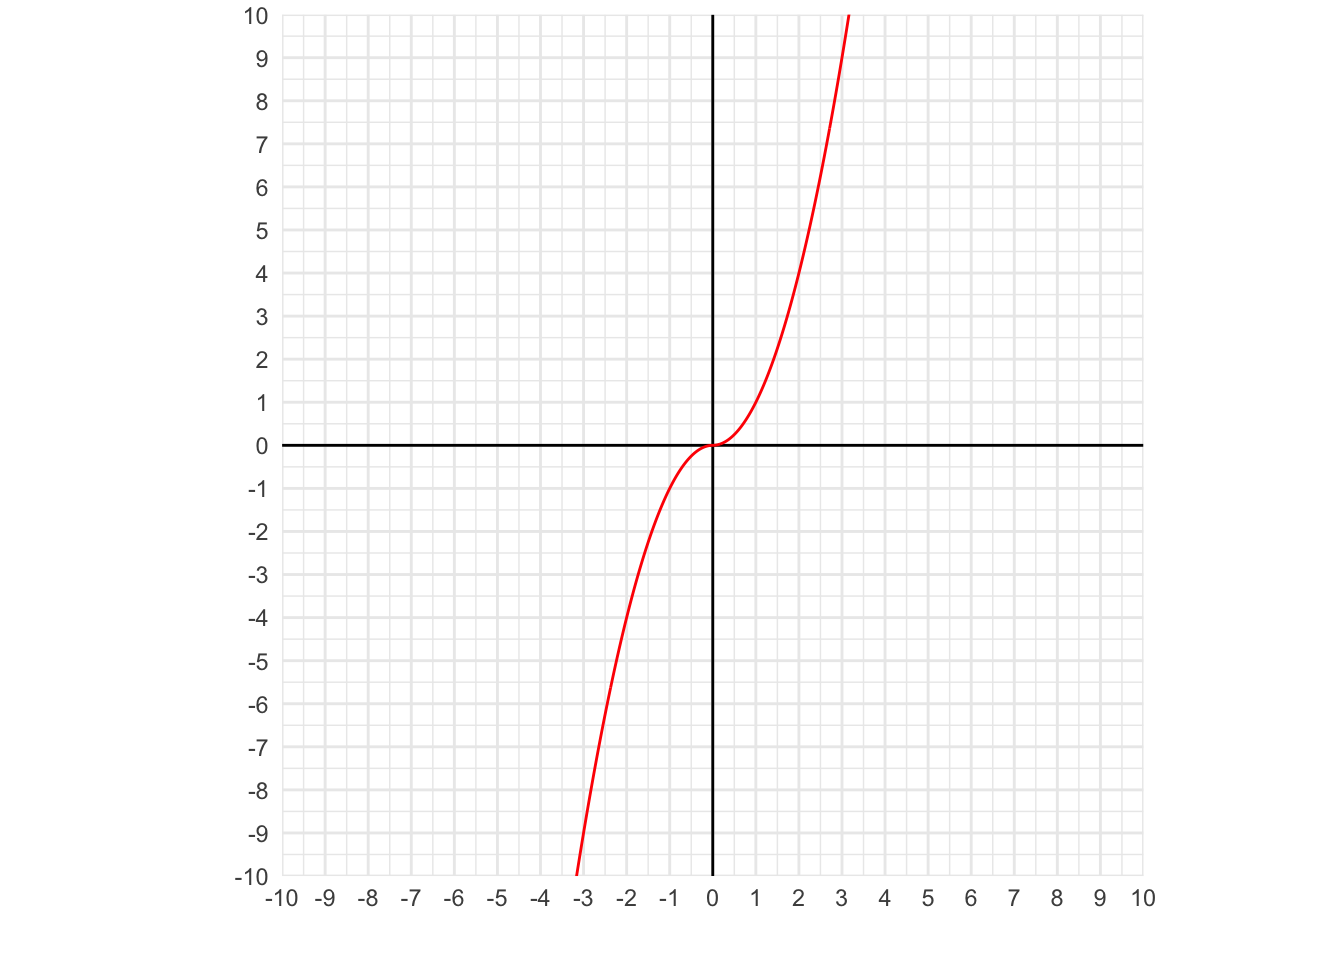
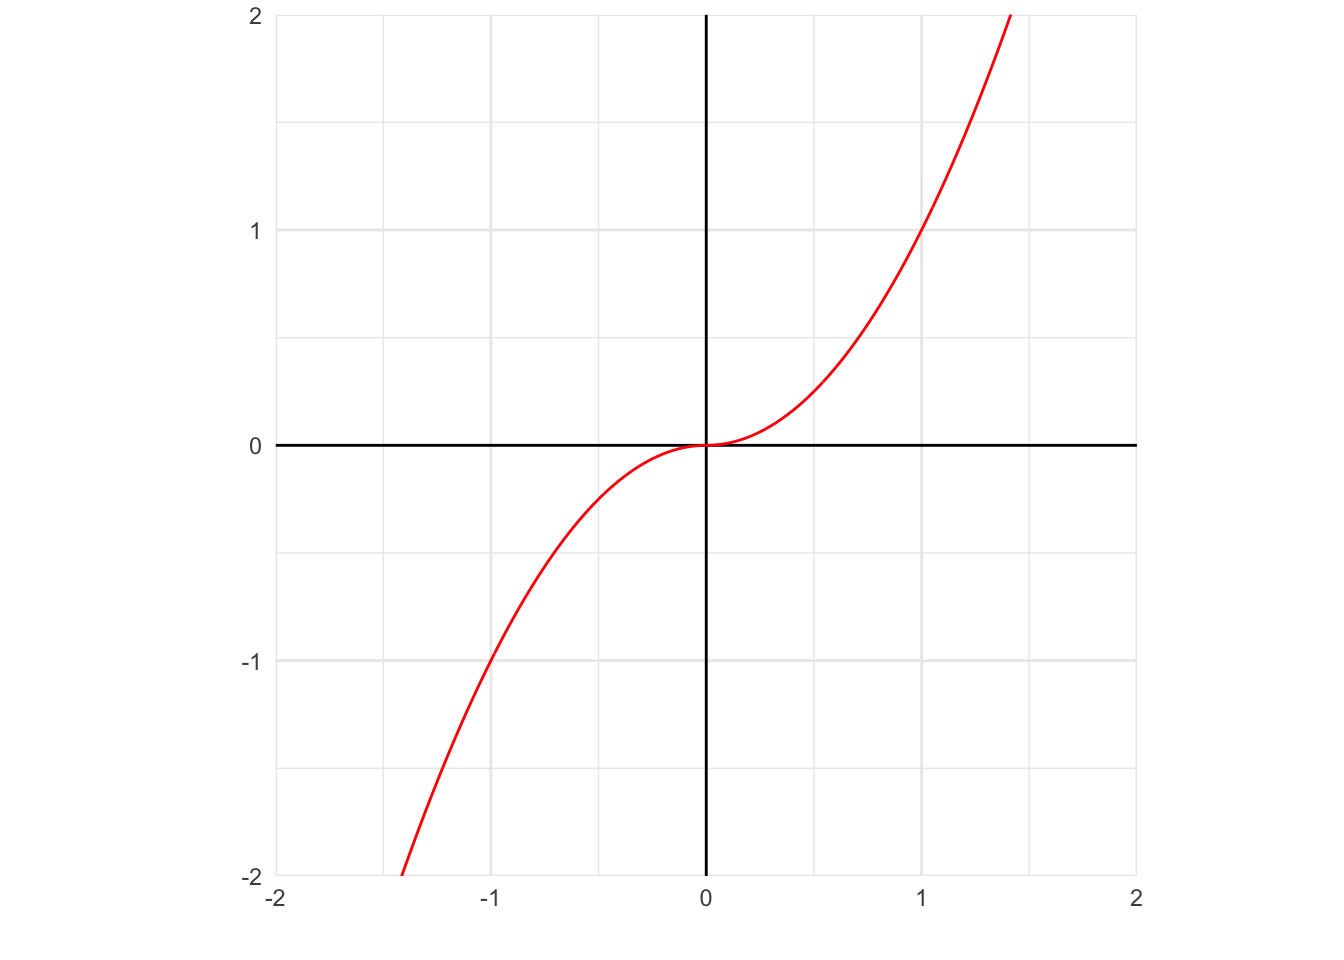
quarto render

diff --git a/docs/lista-1-limites.html b/docs/lista-1-limites.html
@@ -267,7 +267,7 @@ window.Quarto = {
   <li><a href="#primeiro-limite-fundamental-racionalização-fatoração" id="toc-primeiro-limite-fundamental-racionalização-fatoração" class="nav-link" data-scroll-target="#primeiro-limite-fundamental-racionalização-fatoração">1. Primeiro limite fundamental, racionalização, fatoração</a></li>
   <li><a href="#racionalização-fatoração" id="toc-racionalização-fatoração" class="nav-link" data-scroll-target="#racionalização-fatoração">2. Racionalização, fatoração</a></li>
   <li><a href="#fatoração-limites-laterais" id="toc-fatoração-limites-laterais" class="nav-link" data-scroll-target="#fatoração-limites-laterais">3. Fatoração, Limites laterais</a></li>
-  <li><a href="#to-do---fazer" id="toc-to-do---fazer" class="nav-link" data-scroll-target="#to-do---fazer">4. TO DO - FAZER</a></li>
+  <li><a href="#mudança-de-variável-fatoração" id="toc-mudança-de-variável-fatoração" class="nav-link" data-scroll-target="#mudança-de-variável-fatoração">4. Mudança de variável, fatoração</a></li>
   <li><a href="#limite-lateral-módulo" id="toc-limite-lateral-módulo" class="nav-link" data-scroll-target="#limite-lateral-módulo">5. Limite lateral (módulo)</a></li>
   <li><a href="#fatoração" id="toc-fatoração" class="nav-link" data-scroll-target="#fatoração">6. Fatoração</a></li>
   <li><a href="#primeiro-limite-fundamental-substituição-de-variável-produto-de-limites" id="toc-primeiro-limite-fundamental-substituição-de-variável-produto-de-limites" class="nav-link" data-scroll-target="#primeiro-limite-fundamental-substituição-de-variável-produto-de-limites">7. Primeiro limite fundamental, substituição de variável, Produto de limites</a>
@@ -295,18 +295,18 @@ window.Quarto = {
   <li><a href="#parte-2---substituição-direta-1" id="toc-parte-2---substituição-direta-1" class="nav-link" data-scroll-target="#parte-2---substituição-direta-1">Parte 2 - Substituição direta</a></li>
   <li><a href="#resposta-final-1" id="toc-resposta-final-1" class="nav-link" data-scroll-target="#resposta-final-1">Resposta final</a></li>
   </ul></li>
-  <li><a href="#to-do-4" id="toc-to-do-4" class="nav-link" data-scroll-target="#to-do-4">18. TO DO</a></li>
+  <li><a href="#to-do---derivada" id="toc-to-do---derivada" class="nav-link" data-scroll-target="#to-do---derivada">18. TO DO - Derivada</a></li>
   <li><a href="#primeiro-limite-fundamental-teorema-da-função-limitada" id="toc-primeiro-limite-fundamental-teorema-da-função-limitada" class="nav-link" data-scroll-target="#primeiro-limite-fundamental-teorema-da-função-limitada">19. Primeiro limite fundamental + Teorema da função limitada</a></li>
-  <li><a href="#to-do-5" id="toc-to-do-5" class="nav-link" data-scroll-target="#to-do-5">20. TO DO</a></li>
-  <li><a href="#to-do-6" id="toc-to-do-6" class="nav-link" data-scroll-target="#to-do-6">21. TO DO</a></li>
-  <li><a href="#to-do---fazer-1" id="toc-to-do---fazer-1" class="nav-link" data-scroll-target="#to-do---fazer-1">22. TO DO - FAZER</a></li>
-  <li><a href="#to-do---fazer-2" id="toc-to-do---fazer-2" class="nav-link" data-scroll-target="#to-do---fazer-2">23. TO DO - FAZER</a></li>
-  <li><a href="#to-do-7" id="toc-to-do-7" class="nav-link" data-scroll-target="#to-do-7">24. TO DO</a></li>
-  <li><a href="#to-do-8" id="toc-to-do-8" class="nav-link" data-scroll-target="#to-do-8">25. TO DO</a></li>
+  <li><a href="#to-do-4" id="toc-to-do-4" class="nav-link" data-scroll-target="#to-do-4">20. TO DO</a></li>
+  <li><a href="#to-do-5" id="toc-to-do-5" class="nav-link" data-scroll-target="#to-do-5">21. TO DO</a></li>
+  <li><a href="#to-do---fazer" id="toc-to-do---fazer" class="nav-link" data-scroll-target="#to-do---fazer">22. TO DO - FAZER</a></li>
+  <li><a href="#to-do---fazer-1" id="toc-to-do---fazer-1" class="nav-link" data-scroll-target="#to-do---fazer-1">23. TO DO - FAZER</a></li>
+  <li><a href="#to-do-6" id="toc-to-do-6" class="nav-link" data-scroll-target="#to-do-6">24. TO DO</a></li>
+  <li><a href="#to-do-7" id="toc-to-do-7" class="nav-link" data-scroll-target="#to-do-7">25. TO DO</a></li>
   <li><a href="#fatoração-1" id="toc-fatoração-1" class="nav-link" data-scroll-target="#fatoração-1">26. Fatoração</a></li>
   <li><a href="#segundo-limite-fundamental-mudança-de-variável" id="toc-segundo-limite-fundamental-mudança-de-variável" class="nav-link" data-scroll-target="#segundo-limite-fundamental-mudança-de-variável">27. Segundo limite fundamental, mudança de variável</a></li>
-  <li><a href="#to-do-9" id="toc-to-do-9" class="nav-link" data-scroll-target="#to-do-9">28. TO DO</a></li>
-  <li><a href="#to-do-10" id="toc-to-do-10" class="nav-link" data-scroll-target="#to-do-10">29. TO DO</a></li>
+  <li><a href="#to-do-8" id="toc-to-do-8" class="nav-link" data-scroll-target="#to-do-8">28. TO DO</a></li>
+  <li><a href="#to-do-9" id="toc-to-do-9" class="nav-link" data-scroll-target="#to-do-9">29. TO DO</a></li>
   <li><a href="#limites-laterais" id="toc-limites-laterais" class="nav-link" data-scroll-target="#limites-laterais">30. Limites laterais</a></li>
   <li><a href="#intuição-1" id="toc-intuição-1" class="nav-link" data-scroll-target="#intuição-1">31. Intuição</a></li>
   <li><a href="#to-do---polinômios" id="toc-to-do---polinômios" class="nav-link" data-scroll-target="#to-do---polinômios">32. TO DO - Polinômios</a></li>
@@ -500,15 +500,12 @@ window.Quarto = {
 \nexists \lim_{x \to 1} \frac{2x+1}{x^2+2x-3}
 \]</span></p>
 </section>
-<section id="to-do---fazer" class="level3">
-<h3 class="anchored" data-anchor-id="to-do---fazer">4. TO DO - FAZER</h3>
+<section id="mudança-de-variável-fatoração" class="level3">
+<h3 class="anchored" data-anchor-id="mudança-de-variável-fatoração">4. Mudança de variável, fatoração</h3>
 <p><span class="math display">\[
 \lim_{x \to 1} \frac{\sqrt[4]{x}-1}{\sqrt[3]{x}-1}
 \]</span></p>
 <p>Não podemos substituir diretamente, pois dá indeterminação: <span class="math inline">\(\frac{0}{0}\)</span>.</p>
-<blockquote class="blockquote">
-<p>Pensar em como prosseguir! Preciso rever as técnicas de fatoração e racionalização quando a raíz não é quadrada.</p>
-</blockquote>
 <p>Mudança de variável: <span class="math inline">\(x = y^{12}\)</span></p>
 <p><span class="math display">\[
 = \lim_{y \to 1} \frac{y^3 - 1}{y ^4 - 1}
@@ -846,11 +843,12 @@ lim_{x \to a} [f(x) \cdot g(x)] = \left( \lim_{x \to a} f(x) \right) \cdot \left
 \]</span></p>
 </section>
 </section>
-<section id="to-do-4" class="level3">
-<h3 class="anchored" data-anchor-id="to-do-4">18. TO DO</h3>
+<section id="to-do---derivada" class="level3">
+<h3 class="anchored" data-anchor-id="to-do---derivada">18. TO DO - Derivada</h3>
 <p><span class="math display">\[
 \lim_{x \to 4} \frac{\tan x - \tan 4}{\sin x - \sin 4}
 \]</span></p>
+<p>Fazer por derivada. Para chegar no formato, vamos dividir em cima e em baixo por <span class="math inline">\(x - 4\)</span>.</p>
 </section>
 <section id="primeiro-limite-fundamental-teorema-da-função-limitada" class="level3">
 <h3 class="anchored" data-anchor-id="primeiro-limite-fundamental-teorema-da-função-limitada">19. Primeiro limite fundamental + Teorema da função limitada</h3>
@@ -891,26 +889,29 @@ Importante
 = \lim_{x \to 0} x \cdot \sin\frac{1}{x} = 0
 \]</span></p>
 </section>
-<section id="to-do-5" class="level3">
-<h3 class="anchored" data-anchor-id="to-do-5">20. TO DO</h3>
+<section id="to-do-4" class="level3">
+<h3 class="anchored" data-anchor-id="to-do-4">20. TO DO</h3>
 <p><span class="math display">\[
 \lim_{x \to 0} \frac{1-\cos x}{x^2}
 \]</span></p>
 </section>
-<section id="to-do-6" class="level3">
-<h3 class="anchored" data-anchor-id="to-do-6">21. TO DO</h3>
+<section id="to-do-5" class="level3">
+<h3 class="anchored" data-anchor-id="to-do-5">21. TO DO</h3>
 <p><span class="math display">\[
 \lim_{x \to 0} \frac{e^{x^3}-1}{\sin 3x}
 \]</span></p>
 </section>
-<section id="to-do---fazer-1" class="level3">
-<h3 class="anchored" data-anchor-id="to-do---fazer-1">22. TO DO - FAZER</h3>
+<section id="to-do---fazer" class="level3">
+<h3 class="anchored" data-anchor-id="to-do---fazer">22. TO DO - FAZER</h3>
 <p><span class="math display">\[
 \lim_{x \to 1} \left(\frac{1}{x-1}-\frac{3}{1-x^3}\right)
 \]</span></p>
+<blockquote class="blockquote">
+<p>tirei foto da resolução 17/04/2025.</p>
+</blockquote>
 </section>
-<section id="to-do---fazer-2" class="level3">
-<h3 class="anchored" data-anchor-id="to-do---fazer-2">23. TO DO - FAZER</h3>
+<section id="to-do---fazer-1" class="level3">
+<h3 class="anchored" data-anchor-id="to-do---fazer-1">23. TO DO - FAZER</h3>
 <p><span class="math display">\[
 \lim_{x \to \frac{\pi}{2}} \frac{\cos x}{x-\frac{\pi}{2}}
 \]</span></p>
@@ -939,14 +940,14 @@ Importante
 = \lim_{u \to 0} -1 \cdot \cancelto{1}{\frac{\sin u}{u}} = -1
 \]</span></p>
 </section>
-<section id="to-do-7" class="level3">
-<h3 class="anchored" data-anchor-id="to-do-7">24. TO DO</h3>
+<section id="to-do-6" class="level3">
+<h3 class="anchored" data-anchor-id="to-do-6">24. TO DO</h3>
 <p><span class="math display">\[
 \lim_{x \to +\infty} \frac{3x^5+2x-9}{\sqrt{x^6+x+1}}
 \]</span></p>
 </section>
-<section id="to-do-8" class="level3">
-<h3 class="anchored" data-anchor-id="to-do-8">25. TO DO</h3>
+<section id="to-do-7" class="level3">
+<h3 class="anchored" data-anchor-id="to-do-7">25. TO DO</h3>
 <p><span class="math display">\[
 \lim_{x \to 2} \frac{1}{x^2-5x+6}
 \]</span></p>
@@ -999,14 +1000,14 @@ e = \lim_{x \to +\infty}  \left(1 + \frac{1}{x}\right)^x
 = \lim_{u \to +\infty} \left[\cancelto{\space e}{\left(1+\frac{1}{u}\right)^{u}}\right]^7 = e^7
 \]</span></p>
 </section>
-<section id="to-do-9" class="level3">
-<h3 class="anchored" data-anchor-id="to-do-9">28. TO DO</h3>
+<section id="to-do-8" class="level3">
+<h3 class="anchored" data-anchor-id="to-do-8">28. TO DO</h3>
 <p><span class="math display">\[
 \lim_{x \to 0} \cos \frac{1}{x} \cdot{\sin(x^2)}
 \]</span></p>
 </section>
-<section id="to-do-10" class="level3">
-<h3 class="anchored" data-anchor-id="to-do-10">29. TO DO</h3>
+<section id="to-do-9" class="level3">
+<h3 class="anchored" data-anchor-id="to-do-9">29. TO DO</h3>
 <p><span class="math display">\[
 \lim_{x \to +\infty} \frac{3x^5+2x-8}{\sqrt{x^2+2}}
 \]</span></p>

diff --git a/docs/lista-1-derivadas.html b/docs/lista-1-derivadas.html
@@ -21,6 +21,40 @@ ul.task-list li input[type="checkbox"] {
   margin: 0 0.8em 0.2em -1em; /* quarto-specific, see https://github.com/quarto-dev/quarto-cli/issues/4556 */ 
   vertical-align: middle;
 }
+/* CSS for syntax highlighting */
+pre > code.sourceCode { white-space: pre; position: relative; }
+pre > code.sourceCode > span { line-height: 1.25; }
+pre > code.sourceCode > span:empty { height: 1.2em; }
+.sourceCode { overflow: visible; }
+code.sourceCode > span { color: inherit; text-decoration: inherit; }
+div.sourceCode { margin: 1em 0; }
+pre.sourceCode { margin: 0; }
+@media screen {
+div.sourceCode { overflow: auto; }
+}
+@media print {
+pre > code.sourceCode { white-space: pre-wrap; }
+pre > code.sourceCode > span { display: inline-block; text-indent: -5em; padding-left: 5em; }
+}
+pre.numberSource code
+  { counter-reset: source-line 0; }
+pre.numberSource code > span
+  { position: relative; left: -4em; counter-increment: source-line; }
+pre.numberSource code > span > a:first-child::before
+  { content: counter(source-line);
+    position: relative; left: -1em; text-align: right; vertical-align: baseline;
+    border: none; display: inline-block;
+    -webkit-touch-callout: none; -webkit-user-select: none;
+    -khtml-user-select: none; -moz-user-select: none;
+    -ms-user-select: none; user-select: none;
+    padding: 0 4px; width: 4em;
+  }
+pre.numberSource { margin-left: 3em;  padding-left: 4px; }
+div.sourceCode
+  {   }
+@media screen {
+pre > code.sourceCode > span > a:first-child::before { text-decoration: underline; }
+}
 </style>
 
 
@@ -307,7 +341,7 @@ window.Quarto = {
     <div>
     <div class="quarto-title-meta-heading">Data de atualização</div>
     <div class="quarto-title-meta-contents">
-      <p class="date">17 de abril de 2025</p>
+      <p class="date">18 de abril de 2025</p>
     </div>
   </div>
   
@@ -319,6 +353,9 @@ window.Quarto = {
 </header>
 
 
+<div class="cell">
+<div class="sourceCode cell-code" id="cb1"><pre class="sourceCode r code-with-copy"><code class="sourceCode r"><span id="cb1-1"><a href="#cb1-1" aria-hidden="true" tabindex="-1"></a><span class="fu">source</span>(<span class="st">"R/funcoes-plot.R"</span>)</span></code><button title="Copiar para a área de transferência" class="code-copy-button"><i class="bi"></i></button></pre></div>
+</div>
 <section id="calcule-as-derivadas-das-funções-abaixo" class="level2">
 <h2 class="anchored" data-anchor-id="calcule-as-derivadas-das-funções-abaixo">2. Calcule as derivadas das funções abaixo:</h2>
 <section id="regra-da-potência" class="level3">
@@ -428,6 +465,20 @@ f(x) = \frac{(x^2+1)(x^4+x)}{x^7+1}
 <p><span class="math display">\[
 f(x) = |x| \cdot {x}
 \]</span></p>
+<div class="cell">
+<div class="sourceCode cell-code" id="cb2"><pre class="sourceCode r code-with-copy"><code class="sourceCode r"><span id="cb2-1"><a href="#cb2-1" aria-hidden="true" tabindex="-1"></a><span class="fu">plot_line</span>(<span class="cf">function</span>(x) {<span class="fu">abs</span>(x) <span class="sc">*</span> x}, </span>
+<span id="cb2-2"><a href="#cb2-2" aria-hidden="true" tabindex="-1"></a>          <span class="at">x_start =</span> <span class="sc">-</span><span class="dv">2</span>, </span>
+<span id="cb2-3"><a href="#cb2-3" aria-hidden="true" tabindex="-1"></a>          <span class="at">x_end =</span> <span class="dv">2</span>,</span>
+<span id="cb2-4"><a href="#cb2-4" aria-hidden="true" tabindex="-1"></a>          <span class="at">y_start =</span> <span class="sc">-</span><span class="dv">2</span>,</span>
+<span id="cb2-5"><a href="#cb2-5" aria-hidden="true" tabindex="-1"></a>          <span class="at">y_end =</span> <span class="dv">2</span>)</span></code><button title="Copiar para a área de transferência" class="code-copy-button"><i class="bi"></i></button></pre></div>
+<div class="cell-output-display">
+<div>
+<figure class="figure">
+<p><img src="lista-1-derivadas_files/figure-html/plot-l1-2-16-1.png" class="img-fluid figure-img" width="672"></p>
+</figure>
+</div>
+</div>
+</div>
 
 
 </section>

diff --git a/docs/derivadas-2.html b/docs/derivadas-2.html
@@ -311,7 +311,7 @@ window.Quarto = {
     <div>
     <div class="quarto-title-meta-heading">Data de atualização</div>
     <div class="quarto-title-meta-contents">
-      <p class="date">17 de abril de 2025</p>
+      <p class="date">18 de abril de 2025</p>
     </div>
   </div>
   
